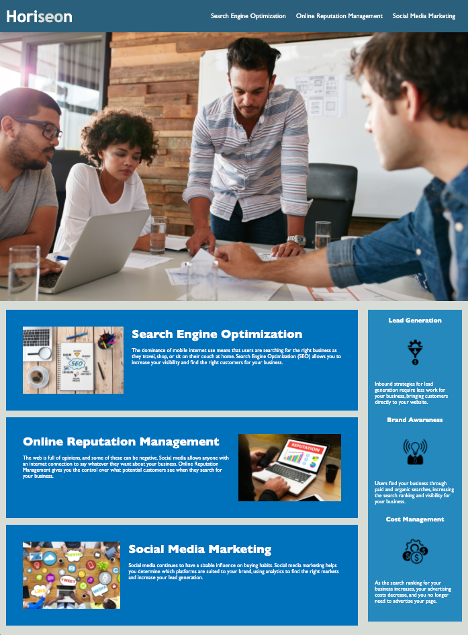
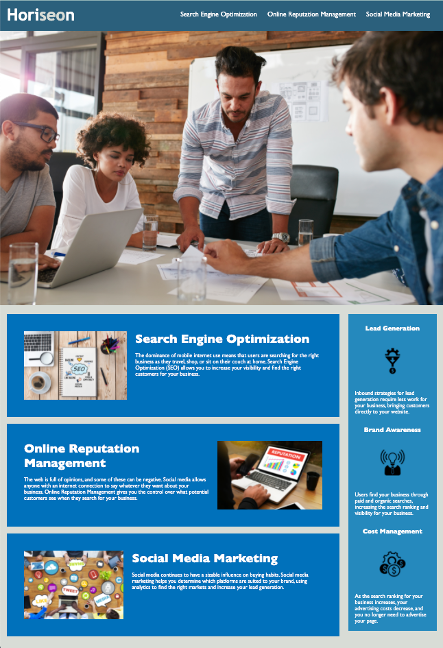
final updates to all files

diff --git a/assets/css/style.css b/assets/css/style.css
@@ -7,7 +7,7 @@
 body {
     background-color: #d9dcd6;
 }
-
+/* Header and Navigation */
 header {
     padding: 20px;
     font-family: 'Trebuchet MS', 'Lucida Sans Unicode', 'Lucida Grande', 'Lucida Sans', Arial, sans-serif;
@@ -32,9 +32,10 @@ header nav {
     font-size: 20px;
 }
 
+/* Removed unnecessary styling.
 header nav ul {
     list-style-type: none;
-}
+} */
 
 header nav ul li {
     display: inline-block;
@@ -46,10 +47,7 @@ a {
     text-decoration: none;
 }
 
-p {
-    font-size: 16px;
-}
-
+/* Background Image */
 .hero {
     height: 800px;
     width: 100%;
@@ -59,79 +57,25 @@ p {
     background-position: center;
 }
 
+/* Main Body */
+p {
+    font-size: 16px;
+}
+
+/* Consolidated .float-left and .float-right classes into specific image clases
 .float-left {
     float: left;
     margin-right: 25px;
 }
-
 .float-right {
     float: right;
     margin-left: 25px;
-}
+} */
 
 .content {
     width: 75%;
     display: inline-block;
     margin-left: 20px;
-}
-
-.benefits {
-    margin-right: 20px;
-    padding: 20px;
-    clear: both;
-    float: right;
-    width: 20%;
-    height: 100%;
-    font-family: 'Gill Sans', 'Gill Sans MT', Calibri, 'Trebuchet MS', sans-serif;
-    background-color: #2589bd;
-}
-
-.benefit-lead {
-    margin-bottom: 32px;
-    color: #ffffff;
-}
-
-.benefit-brand {
-    margin-bottom: 32px;
-    color: #ffffff;
-}
-
-.benefit-cost {
-    margin-bottom: 32px;
-    color: #ffffff;
-}
-
-.benefit-lead h3 {
-    margin-bottom: 10px;
-    text-align: center;
-}
-
-.benefit-brand h3 {
-    margin-bottom: 10px;
-    text-align: center;
-}
-
-.benefit-cost h3 {
-    margin-bottom: 10px;
-    text-align: center;
-}
-
-.benefit-lead img {
-    display: block;
-    margin: 10px auto;
-    max-width: 150px;
-}
-
-.benefit-brand img {
-    display: block;
-    margin: 10px auto;
-    max-width: 150px;
-}
-
-.benefit-cost img {
-    display: block;
-    margin: 10px auto;
-    max-width: 150px;
 }
 
 .search-engine-optimization {
@@ -163,31 +107,106 @@ p {
 
 .search-engine-optimization img {
     max-height: 200px;
+    float: left;
+    margin-right: 25px;
 }
 
 .online-reputation-management img {
     max-height: 200px;
+    float: right;
+    margin-left: 25px;
 }
 
 .social-media-marketing img {
     max-height: 200px;
+    float: left;
+    margin-right: 25px;
 }
 
+/* Consolidated h2 styling
 .search-engine-optimization h2 {
     margin-bottom: 20px;
     font-size: 36px;
 }
-
 .online-reputation-management h2 {
     margin-bottom: 20px;
     font-size: 36px;
-}
-
-.social-media-marketing h2 {
+} */
+/* .social-media-marketing {
+    margin-bottom: 20px;
+    font-size: 36px;
+} */
+h2 {
     margin-bottom: 20px;
     font-size: 36px;
 }
 
+/* Aside */
+.benefits {
+    margin-right: 20px;
+    margin-bottom: 32px;
+    color: #ffffff;
+    padding: 20px;
+    clear: both;
+    float: right;
+    width: 20%;
+    height: 100%;
+    font-family: 'Gill Sans', 'Gill Sans MT', Calibri, 'Trebuchet MS', sans-serif;
+    background-color: #2589bd;
+}
+
+/* Consolidated aside block styling
+.benefit-lead {
+    margin-bottom: 32px;
+    color: #ffffff;
+}
+.benefit-brand {
+    margin-bottom: 32px;
+    color: #ffffff;
+}
+.benefit-cost {
+    margin-bottom: 32px;
+    color: #ffffff;
+} */
+
+.benefit-lead h3 {
+    margin-top: 10px;
+    text-align: center;
+}
+/* Consolidate h3 styling 
+.benefit-brand h3 {
+    margin-bottom: 10px;
+    text-align: center;
+}
+.benefit-cost {
+    margin-bottom: 10px;
+    text-align: center;
+}  */
+h3 {
+    margin-bottom: 10px;
+    margin-top: 32px;
+    text-align: center;
+}
+
+.benefit-lead img {
+    display: block;
+    margin: 10px auto;
+    max-width: 150px;
+}
+
+.benefit-brand img {
+    display: block;
+    margin: 10px auto;
+    max-width: 150px;
+}
+
+.benefit-cost img {
+    display: block;
+    margin: 10px auto;
+    max-width: 150px;
+}
+
+/* Footer */
 footer {
     padding: 30px;
     clear: both;

diff --git a/index.html b/index.html
@@ -27,21 +27,21 @@
     <figure class="hero" alt="group of people meeting in a conference room"></figure>
     <main class="content">
         <section id="search-engine-optimization" class="search-engine-optimization">
-            <img src="./assets/images/search-engine-optimization.jpg" alt="notebook, coffee, laptop, and pens on desk" class="float-left" />
+            <img src="./assets/images/search-engine-optimization.jpg" alt="notebook, coffee, laptop, and pens on desk" />
             <h2>Search Engine Optimization</h2>
             <p>
                 The dominance of mobile internet use means that users are searching for the right business as they travel, shop, or sit on their couch at home. Search Engine Optimization (SEO) allows you to increase your visibility and find the right customers for your business.
             </p>
         </section>
         <section id="online-reputation-management" class="online-reputation-management">
-            <img src="./assets/images/online-reputation-management.jpg" alt="laptop that reads Reputation above bar graph" class="float-right" />
+            <img src="./assets/images/online-reputation-management.jpg" alt="laptop that reads Reputation above bar graph" />
             <h2>Online Reputation Management</h2>
             <p>
                 The web is full of opinions, and some of these can be negative. Social media allows anyone with an internet connection to say whatever they want about your business. Online Reputation Management gives you the control over what potential customers see when they search for your business.
             </p>
         </section>
         <section id="social-media-marketing" class="social-media-marketing">
-            <img src="./assets/images/social-media-marketing.jpg" alt="birds eye view of meeting" class="float-left" />
+            <img src="./assets/images/social-media-marketing.jpg" alt="birds eye view of meeting" />
             <h2>Social Media Marketing</h2>
             <p>
                 Social media continues to have a sizable influence on buying habits. Social media marketing helps you determine which platforms are suited to your brand, using analytics to find the right markets and increase your lead generation.

diff --git a/README.md b/README.md
@@ -2,7 +2,7 @@
 
 ## Objectives
 
-In this project, I refactored the existing Horiseon webpage code to replace non-semantic tags with semantic tags.
+In this project, I refactored the existing Horiseon webpage code to replace non-semantic tags with semantic tags as well as consolidated and organized css within the existing stylesheet.
 
 ## Screenshot of Final Page
 
